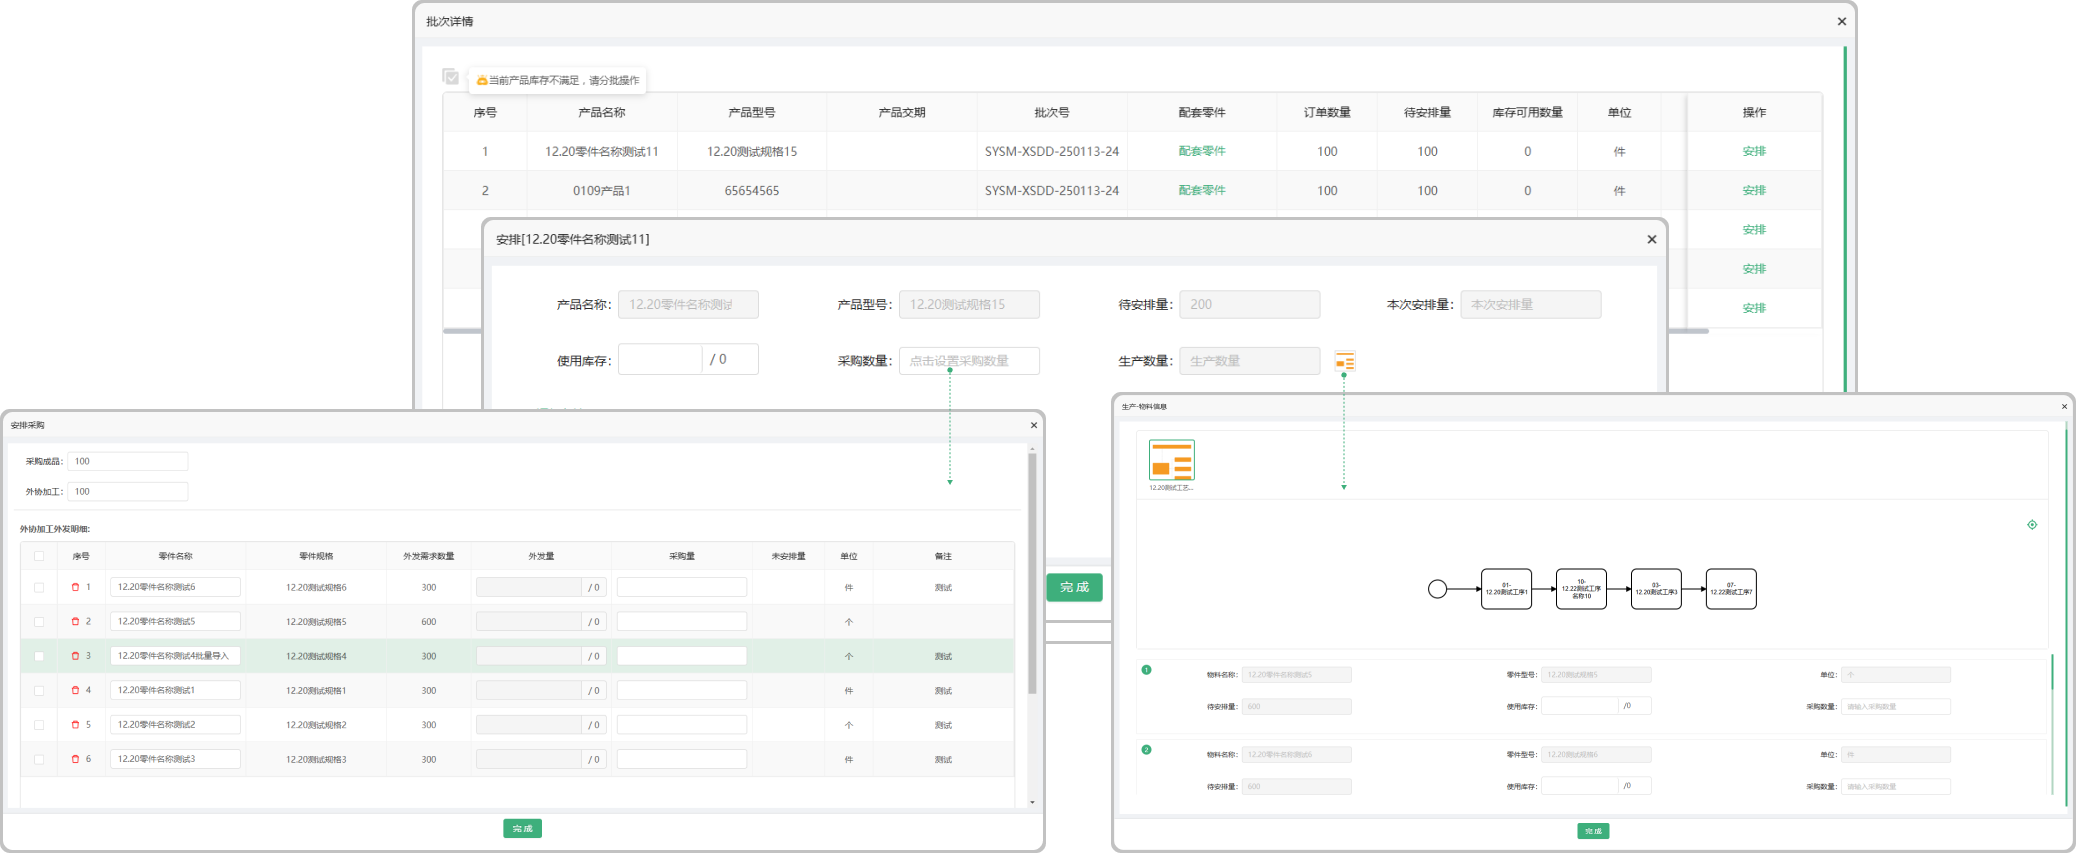
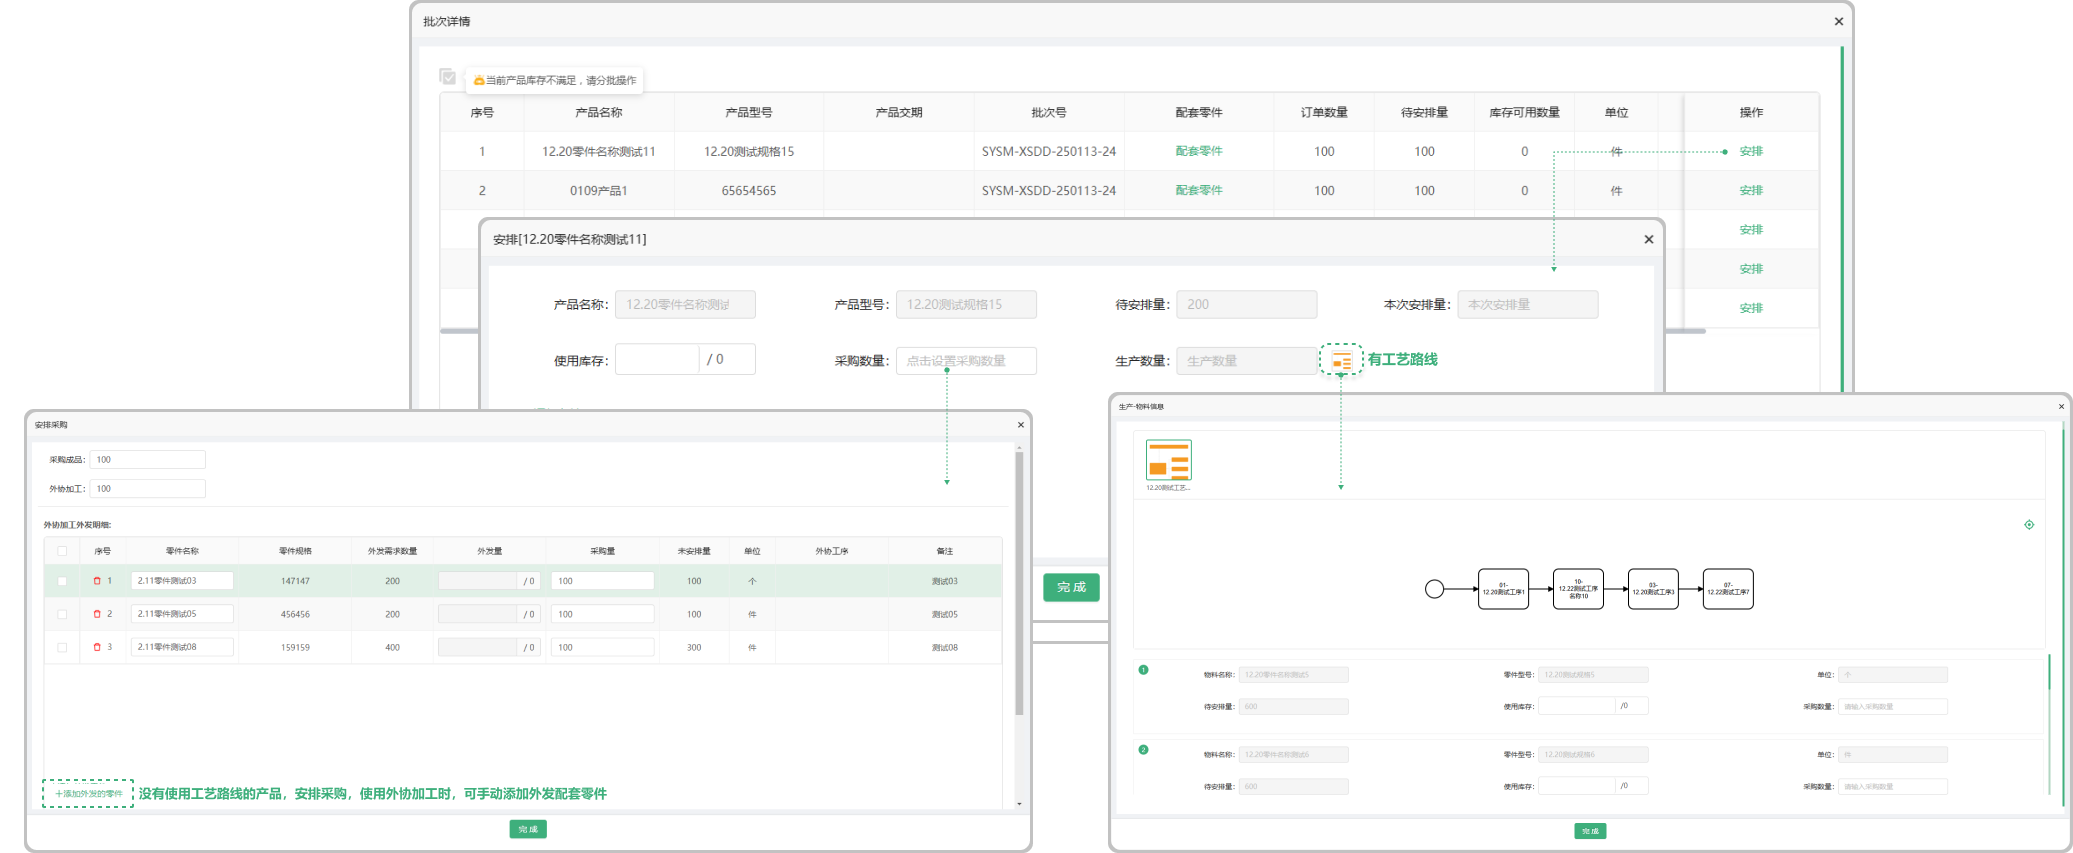
2.12 用户端迭代更新使用说明手册

diff --git a/docs/生产管理/生产派工.md b/docs/生产管理/生产派工.md
@@ -1,20 +1,93 @@
 # 生产派工
 
-> “生产派工列表”位于“生产管理板块” ，分为生产任务（调度对有工艺路线的产品和零件进行生产安排，安排完成后，工艺路线中的内部工序生成生产任务）、采购进度（调度对有外部工序工艺路线的产品和零件进行生产安排，安排完成后，采购缺料列表会生成对应的询价单，同时生产派工的采购进度页面会显示对应的任务进度）、生产明细（车间主任-生产明细：已完成，生产中，已派工的生产任务）
+> “生产派工列表”位于“生产管理板块” ，分为生产任务、采购进度、生产明细 
 
-#### 生产任务
+### 产任务
+
+> 调度对有工艺路线的产品和零件进行生产安排，安排完成后，工艺路线中的 "内部工序" 生成生产任务
+
+#### 1.任务查询
+
+* 支持批次号，产品名称，工序名称，操作工，任务状态，产品交期搜索
+
+#### 2.批量派工
+
+* 车间主任（部门负责人）同一个批次下的多个生产任务可以进行批量派工操作，一个工序可以设置多个操作工
+
+#### 3.工序
+
+* 点开工序，有颜色的框代表查看的是当前这道工序
+
+* 产品工序和零件工序的区分：零件工序前面有图标
+
+#### 4.已完成量
+
+* 点击完成量，可以查看该工序的报工明细记录
+
+* 存在一个产品/零件分配给多名人员来完成
+
+#### 5.操作工
+
+* 点击查看分配的操作工人员
+
+#### 6.BOM表
+
+* 点击BOM表，可以查看工序对应的配套零件
+
+#### 7.作业指导
+
+* 点击查看所上传的作业指导预览、下载、支持pdf打印
+
+#### 8.详情
+
+* 点击查看这个产品/零件的详细内容
+
+#### 9.报工
+
+* 一个批次下可以设置多个操作工
+
+*  设置多个操作工时，进行分派数量设置时，分派详情界面可以同时对选择的操作工设置分派数量
+
+* 报工界面可自主填写完成数量
+
+* 接收量为前道工序报工的完成数量
+
+* 接收人员范围:下道工序的生产人员
+
+* 状态设置为生产中时，即使完成量超出任务量，还可以进行报工操作
+
+* 状态设置为已完成时，即使完成量小于任务量，生产任务状态也会更新为完成
+
+*  系统能根据工艺路线，将报工信息触发至下道工序操作人员
+
+![如图所示](../file/scpg-scrw1.png)
 
 
 
+![如图所示](../file/scpg-scrw2.png)
+
+### 采购进度
+
+> 调度对有外部工序工艺路线的产品和零件进行生产安排，安排完成后，采购缺料列表会生成对应的询价单，同时生产派工的采购进度页面会显示对应的任务进度
+
+#### 1.采购进度列表查询
+
+* 可通过批次号，产品名称，工序名称，采购，状态，产品交期时间进行筛选
 
 
-#### 采购进度
+![如图所示](../file/scpg-cgjd1.png)
 
 
+### 生产明细
+
+> 车间主任-生产明细：已完成，生产中，已派工的生产任务
 
 
+#### 1.生产明细列表查询
+
+* 批次号，产品名称，工序名称，操作工，任务状态，产品交期
 
 
+![如图所示](../file/scpg-scmx1.png)
 
 
-#### 生产明细

diff --git a/docs/生产管理/生产任务单-员工.md b/docs/生产管理/生产任务单-员工.md
@@ -1,3 +1,53 @@
 # 生产任务单-员工
 
 > “生产任务单-员工”位于“生产管理板块” 生产任务(车间主任（部门负责人）分派任务选择的操作工会接收到对应的生产任务）、 生产明细
+
+### 生产任务
+
+#### 1.工序
+
+* 点开工序，有颜色的框代表查看的是当前这道工序
+
+* 产品工序和零件工序的区分：零件工序前面有图标
+
+#### 2.BOM
+
+* 点击BOM表，可以查看工序对应的配套零件
+
+#### 3.作业指导
+
+* 点击查看所上传的作业指导预览、下载、支持pdf打印
+
+#### 4.生产
+
+* 点击生产，确认是否开始生产
+
+#### 5.报工
+
+* 点击报工，输入接收量、完成量、报废量、状态、报工时间、下道工序、接收人员，完成报工
+
+
+![如图所示](../file/scrwd1.png)
+
+![如图所示](../file/scrwd2.png)
+
+### 生产明细
+
+#### 1.工序
+
+* 点开工序，有颜色的框代表查看的是当前这道工序
+
+* 产品工序和零件工序的区分：零件工序前面有图标
+
+#### 2.已完成量
+
+* 点击完成量，可以查看该工序的报工明细记录
+
+* 存在一个产品/零件分配给多名人员来完成
+
+#### 3.BOM
+
+* 点击BOM表，可以查看工序对应的配套零件
+
+
+![如图所示](../file/scmx1.png)
